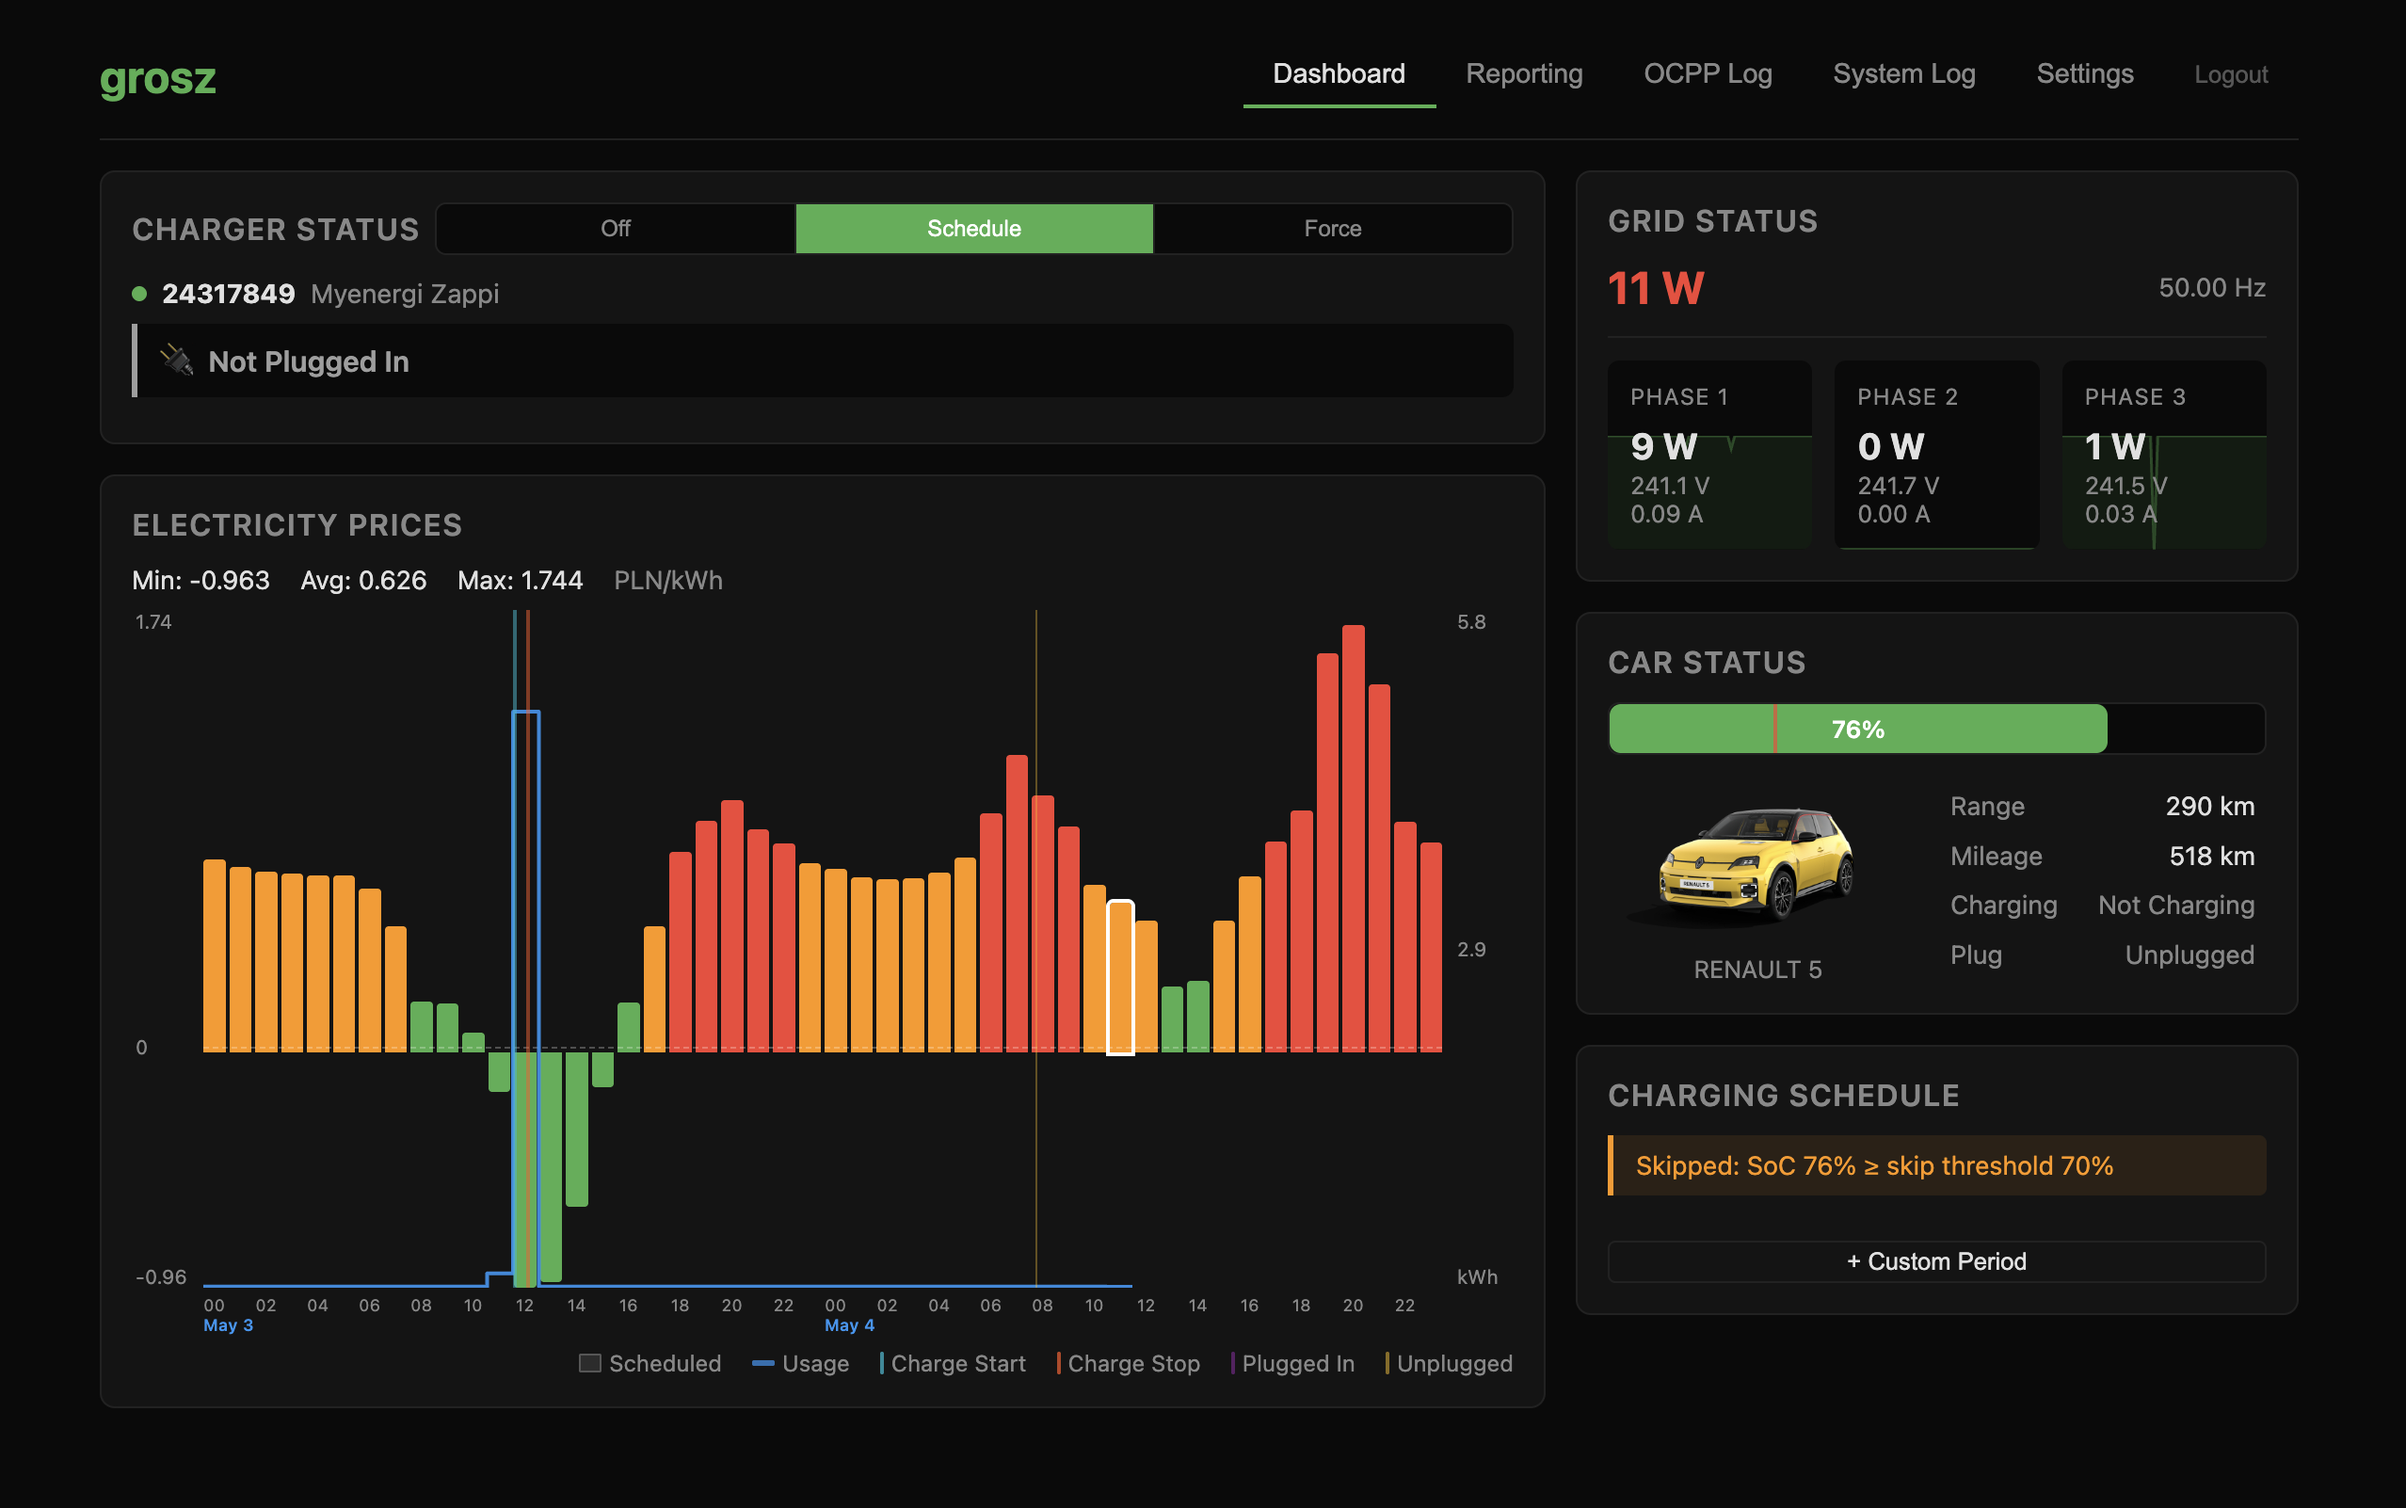
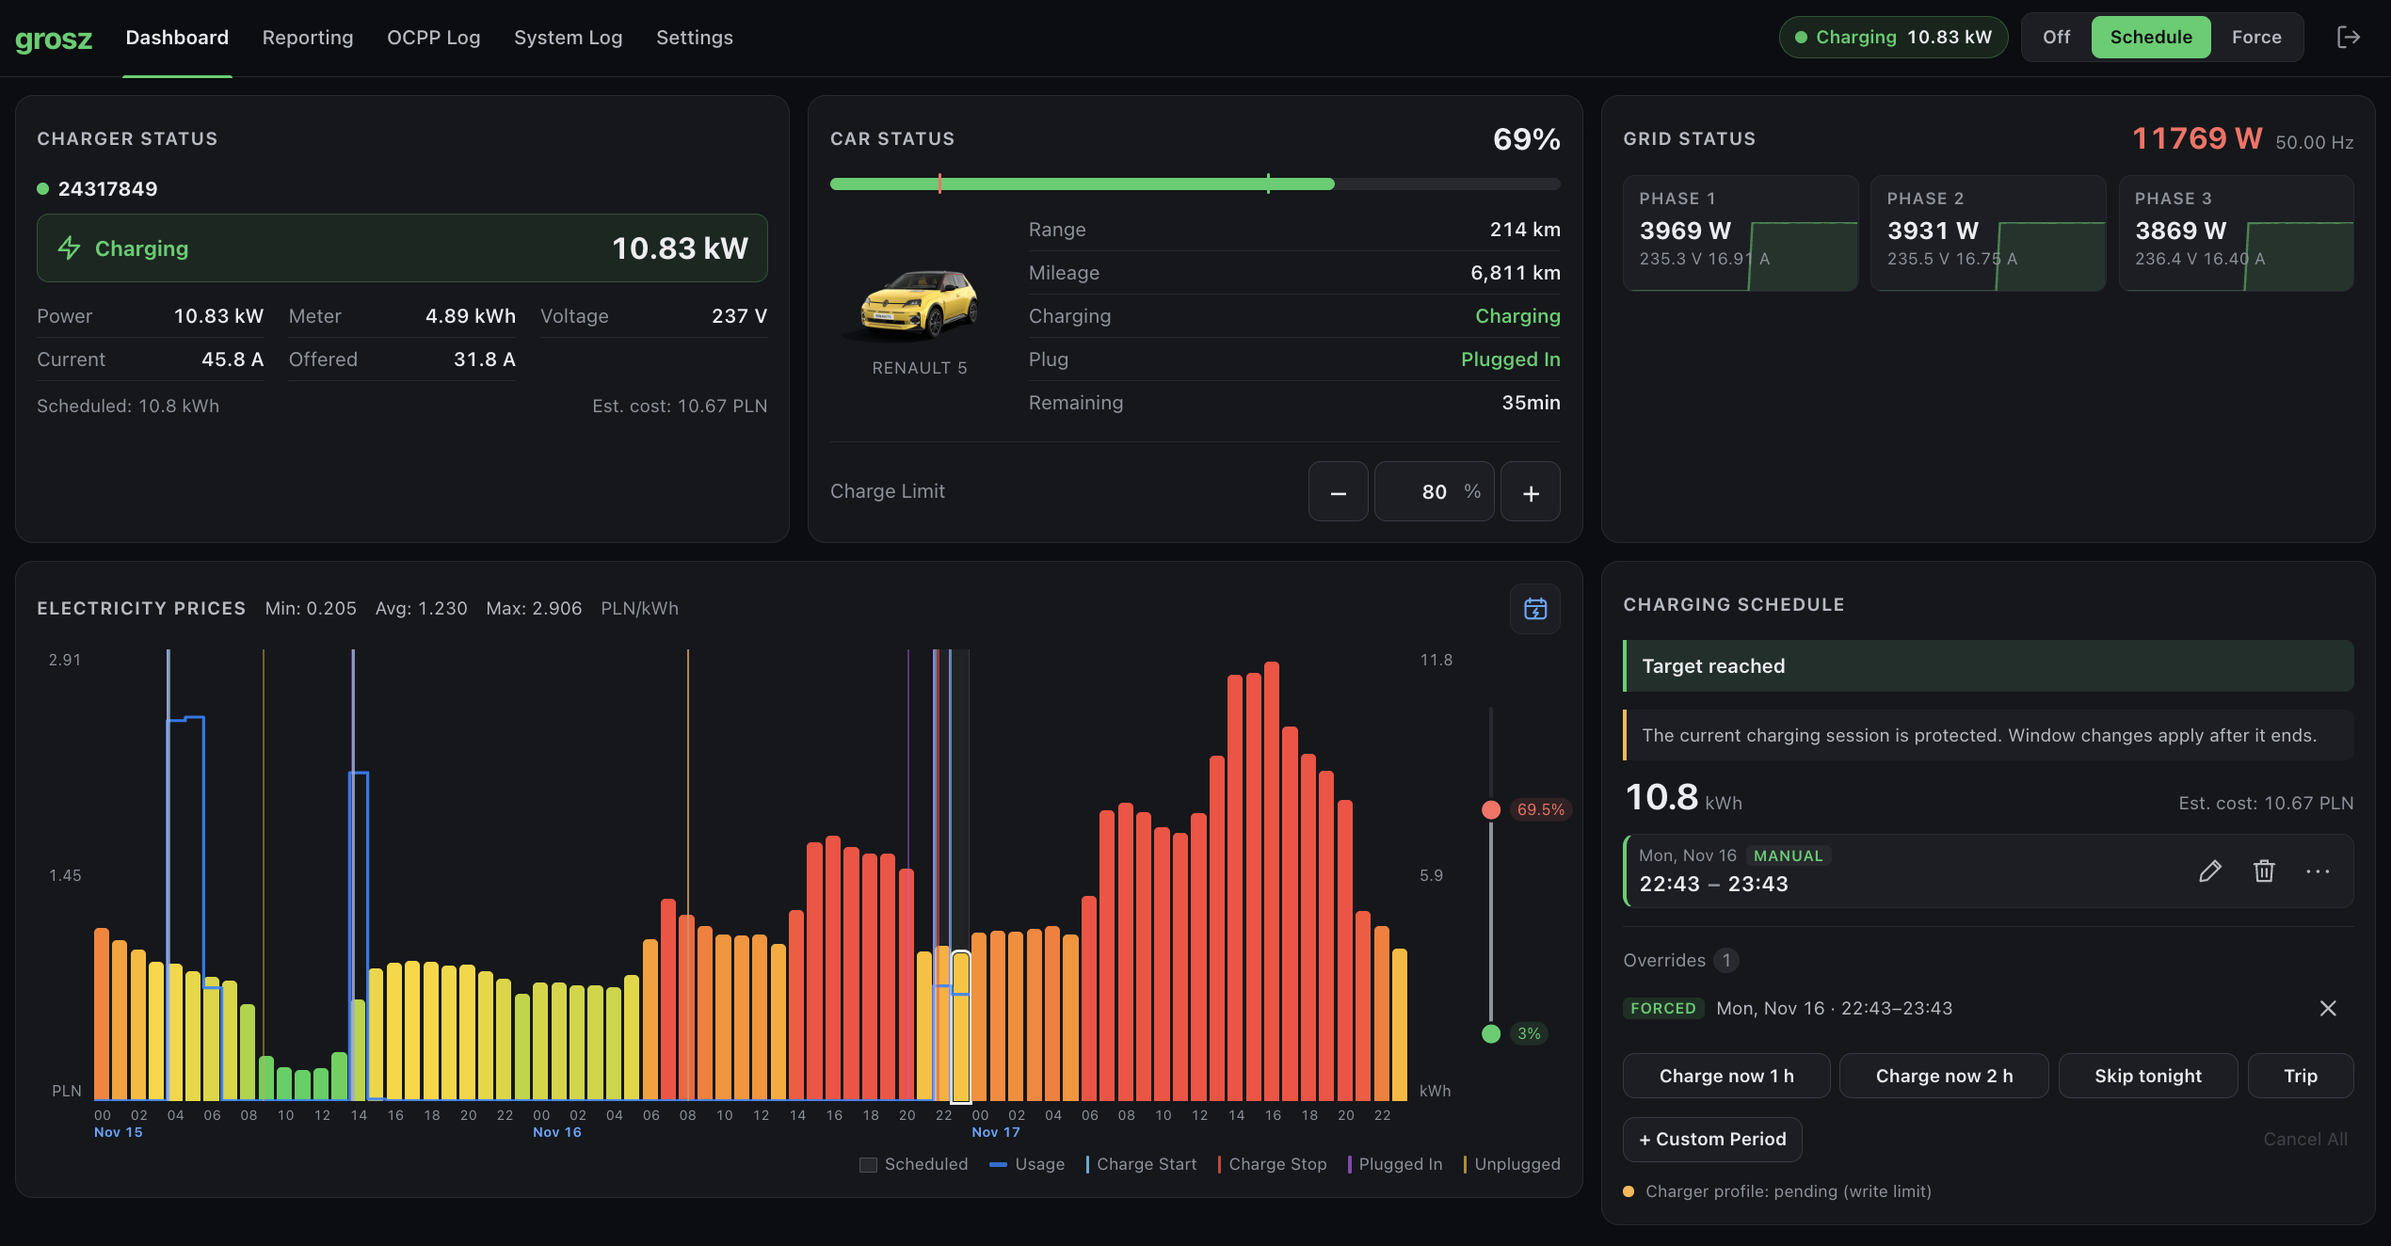
scheduler: check sendStartForced results; refresh README screenshot

diff --git a/internal/scheduler/scheduler.go b/internal/scheduler/scheduler.go
@@ -912,7 +912,7 @@ func (s *Scheduler) controlChargingInternal(mode string, forced bool) {
 				return
 			}
 			s.recordPlugCheckSkip(skipReason, "force", cpID)
-			s.sendStartForced(cpID, "force", suspendedEVOverride)
+			_ = s.sendStartForced(cpID, "force", suspendedEVOverride) // logged and recorded inside
 		}
 	default: // "schedule"
 		s.mu.RLock()
@@ -953,7 +953,7 @@ func (s *Scheduler) controlChargingInternal(mode string, forced bool) {
 				return
 			}
 			s.recordPlugCheckSkip(skipReason, "schedule", cpID)
-			s.sendStartForced(cpID, "schedule", suspendedEVOverride)
+			_ = s.sendStartForced(cpID, "schedule", suspendedEVOverride) // logged and recorded inside
 		} else if !shouldCharge && hasTransaction {
 			s.idleTransaction(cpID, txnID, status, sched)
 		} else if shouldCharge && hasTransaction {
